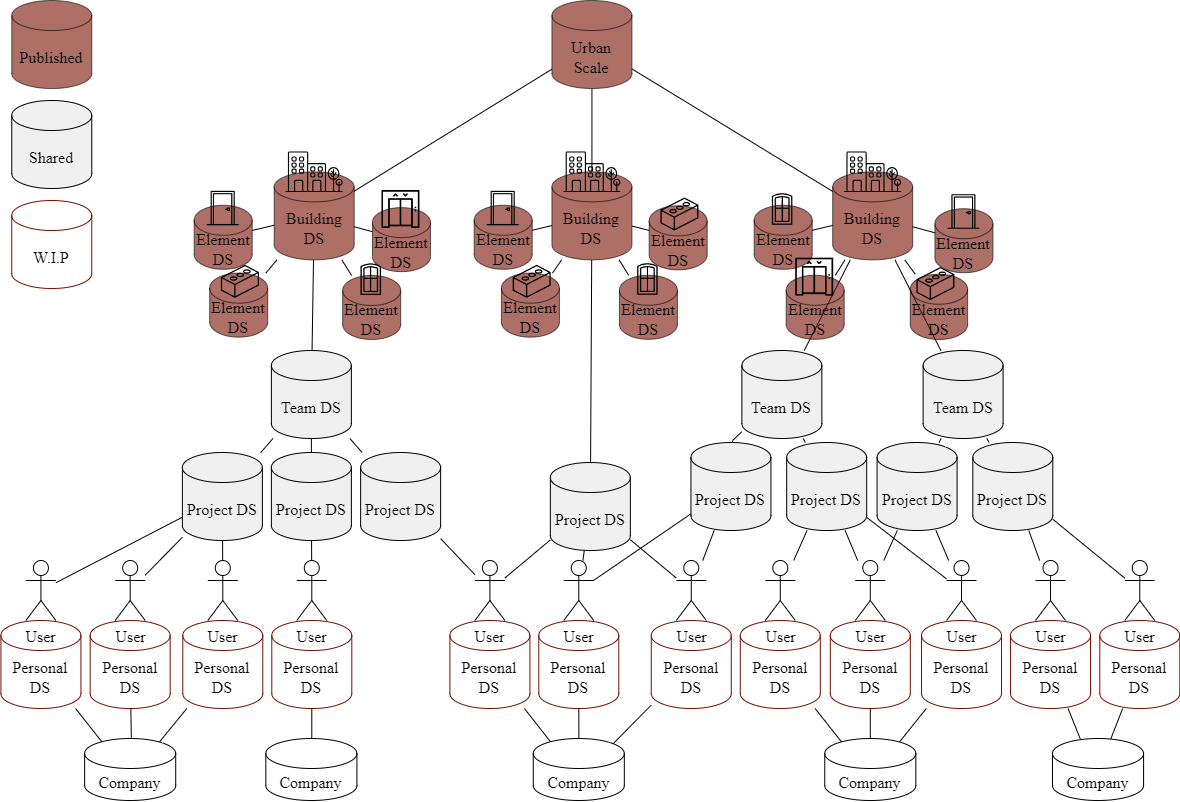
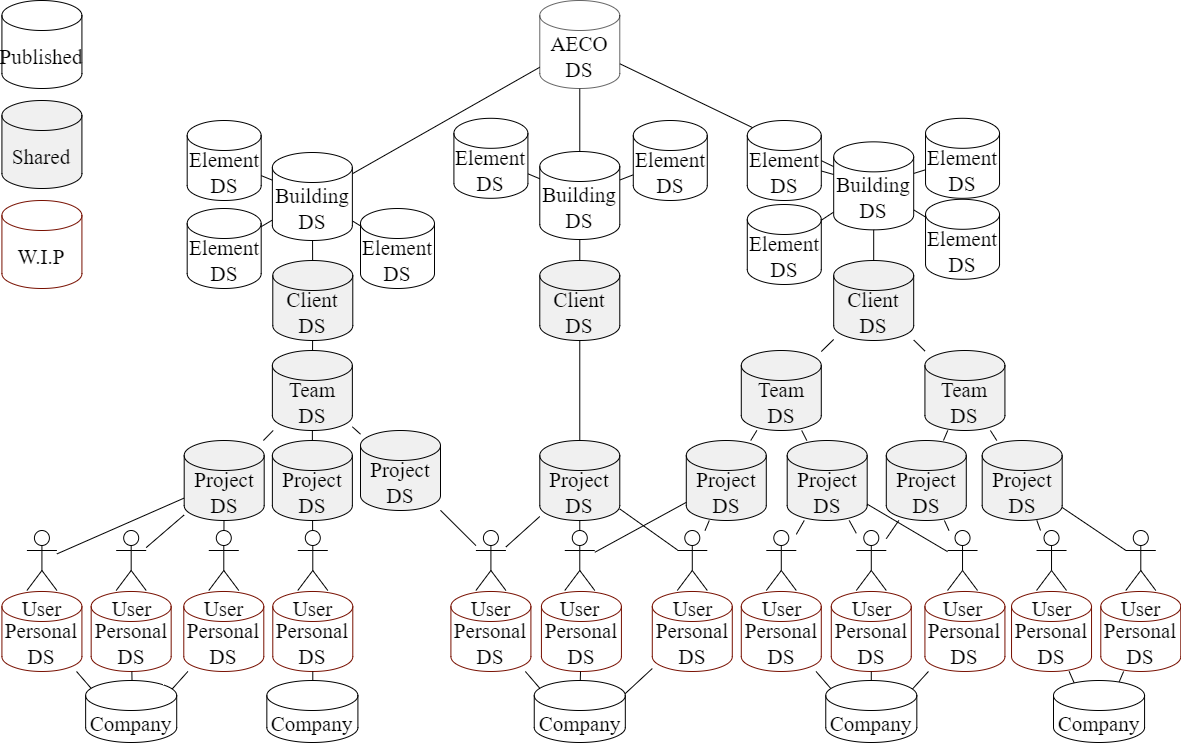
Information Tab Update Text

diff --git a/client/src/scenes/Information/index.jsx b/client/src/scenes/Information/index.jsx
@@ -34,7 +34,7 @@ const Information = () => {
       <Box flex="1" mr={4}>
         <Header
           title="Information"
-          subtitle="This page explains (1) what the AECO data space it, (2) how it works for users and admins, and (3) who and why it was developed."
+          subtitle="This page provides an overview of the AECO data space by explaining (1) what it is, (2) how it functions for both users and administrators, and (3) the purpose and rationale behind its development."
         />
 
         {/* Text content */}
@@ -43,16 +43,16 @@ const Information = () => {
             Explanation AECO Data Space
           </Typography>
           <Typography variant="body1" gutterBottom>
-            This website represents the AECO (Architecture, Engineering, Construction, and Operations) data space, which is designed to facilitate seamless information exchange and collaboration among different stakeholders involved during the different life-cycle stages of a building. 
+            This prototype represents the AECO (Architecture, Engineering, Construction, and Operations) data space, which is designed to facilitate seamless information exchange and collaboration among different stakeholders involved during the different life-cycle stages of a building. 
           </Typography>
           <Typography variant="body1" gutterBottom>
             The AECO data space contains different smaller data spaces that together form the AECO data space. Hence, the AECO data space consists of several building data spaces, which in turn consist of element data spaces, as shown in Figure 1.
           </Typography>
           <Typography variant="body1" gutterBottom>
-            During a building's life cycle, different stakeholders generate information at various stages. Following the ISO 19650 recommended workflow for data sharing, this information undergoes different stages before becoming publicly accessible. Initially, data is labeled as Work In Progress (W.I.P) and is not publicly accessible. It is then shared within the company or team (shared). Finally, once all stakeholders agree, the data can be made publicly available.
+          Throughout a building's life cycle, various stakeholders generate information at different stages. According to the ISO 19650 workflow for data sharing, this information progresses through several phases before becoming publicly accessible. Initially, data is classified as Work In Progress (W.I.P.) and remains restricted. Next, it is shared internally within the company, team, or with the client. Once all stakeholders have reviewed and approved the data, it can be made publicly available.
           </Typography>
           <Typography variant="body1" gutterBottom>
-            The AECO data space follows a hierarchical structure comprising several data spaces, ranging from personal to project, team, element, building, and urban data spaces, as shown in Figure 2.
+            The AECO data space follows a hierarchical structure comprising several data spaces, ranging from personal to project, team, client, element, and building data spaces, as shown in Figure 2.
           </Typography>
           <Typography variant="body1" gutterBottom component="div">
           <ol>
@@ -69,7 +69,7 @@ const Information = () => {
                 onClick={() => navigate('/companydataspace')}
                 sx={{ cursor: 'pointer' }}
               >
-                 <strong>Project Data Space:</strong> Each user works for a company, and every company has one or more projects related to a building or building element. For each project, a project data space is created. Files in this space are accessible to all employees assigned to the project within the company.
+                 <strong>Project Data Space:</strong> Each user works for a company, and every company has one or more projects related to a building or building element. For each project, a project data space is created for which it is indicated which employees are working on that project. Files in this space are accessible to all employees assigned to the project within the company.
               </Typography>
              
             </li>
@@ -84,20 +84,20 @@ const Information = () => {
             </li>
             <li>
               <Typography
-                onClick={() => navigate('/elementdataspace')}
+                onClick={() => navigate('/clientdataspace')}
                 sx={{ cursor: 'pointer' }}
               >
-                <strong>Element/Building Data Space:</strong> When all stakeholders within the team agree about the content of the data, the data can be made publicly available and thus moves to the related building or element data space.
+                <strong>Client Data Space:</strong> For each project and team, the client of the assignment is indicated. In the client data space, the user has an overview of all projects and teams where the user is registered as a client. When the information is ready to be shared, the user can update the file status to 'shared with client'. The information will then appear in the client data space. 
               </Typography>
+              
             </li>
             <li>
               <Typography
-                onClick={() => navigate('/urbanscale')}
-                sx={{ cursor: 'pointer'}}
+                onClick={() => navigate('/elementdataspace')}
+                sx={{ cursor: 'pointer' }}
               >
-                <strong>Urban Data Space:</strong> This data space includes all building data spaces.
+                <strong>Element/Building Data Space:</strong> When all stakeholders within the project or team and the client agree about the content of the data, the data can be made publicly available and thus moves to the related building or element data space.
               </Typography>
-              
             </li>
           </ol>
           </Typography>
@@ -120,7 +120,7 @@ const Information = () => {
                 onClick={() => navigate(`/dataupload`)}
                 sx={{ cursor: 'pointer' }}
             >
-                <strong>Upload Data:</strong> Next, the user should upload their data. In doing so, it is important to indicate the owner of the file, to which element or building the file is related, and the company, project, and possibly the team that are involved with the file. Finally, the user should indicate the sharing status of the file, chosing the file to be private, shared, or public. 
+                <strong>Upload Data:</strong> Next, the user should upload their data. In doing so, it is important to indicate the owner of the file, to which element or building the file is related, and the company, project, and possibly the team that are involved with the file. Finally, the user should indicate the sharing status of the file, chosing the file to be private, shared (with project, team or client), or public. 
             </Typography>
             </li>
             <li>
@@ -128,21 +128,21 @@ const Information = () => {
                 onClick={() => navigate(`/personaldataspace`)}
                 sx={{ cursor: 'pointer' }}
             >
-                <strong>Update File Status:</strong> Over time, the sharing status of a file could change. It is important that the user updates this infromation in their personal data space. When changing the status, the file will become acccessible in the different data spaces, and thus for different users. See the personal data space for an elaborat explanation of which file is accessible to which user with what file status.
+                <strong>Update File Status:</strong> Over time, the sharing status of a file could change. It is important that the user updates this infromation in their personal data space. When changing the status, the file will become visible in the different data spaces, and thus for different users. Navigate to the personal data space for an elaborate explanation of which file is accessible to which user with what file status.
             </Typography>
             </li>
             <li>
             <Typography>
-                <strong>Explore Data Spaces:</strong> Finally, the user can explore the different data spaces. In the personal data space, the user can find all their uploaded files. Next, the project data spaces shows the files related to the projects the user is involved in, same for the team data space. The building and element data space shows all files that are publicly available for every user.
+                <strong>Explore Data Spaces:</strong> Finally, the user can explore the different data spaces. In the personal data space, the user can find all their uploaded files. Next, the project data spaces shows the files related to the projects the user is involved in, same for the team data space. When the user is registered as a client, the client data space gives an overview of the progress of all these projects and teams. The building and element data space shows all files that are publicly available for every user.
             </Typography>
             </li>
             </ol>
           </Typography>
           <Typography color={theme.palette.secondary[100]} fontWeight="bold" variant="h5" gutterBottom>
-            Admin Information
+            Role Dependent Functions
           </Typography>
           <Typography variant="body1" gutterBottom>
-            As an admin it is important to keep track of the following meta deta;
+          In the AECO data space, certain functions are accessible only to users with specific roles. For example, users with the appropriate permissions can create and update metadata, such as new projects, teams, companies, buildings, or elements. Additionally, administrators have the ability to manage and update user roles.
           </Typography>
           <Typography variant="body1" gutterBottom>
           <ol>
@@ -151,7 +151,7 @@ const Information = () => {
                 onClick={() => navigate(`/companyinformation/newcompany`)}
                 sx={{ cursor: 'pointer' }}
             >
-                <strong>New Companies:</strong> When a new company is founded, the admin should create a new company in the company information tab.
+                <strong>New Companies:</strong> When a new company is founded, the user should create a new company in the company information tab. This can only be done by users with the roles: admin or company owner.  
             </Typography>
             </li>
 
@@ -160,7 +160,7 @@ const Information = () => {
                 onClick={() => navigate(`/companydataspace/newproject`)}
                 sx={{ cursor: 'pointer' }}
             >
-                <strong>New Project:</strong> When a new project is established, the admin should create a new project in the company data space tab. The project should include the employees that are working on the project, the client, and to which building the company is related. If the project is related to a specific element, please select in which building the element is located.  
+                <strong>New Project:</strong> When a new project is established, the user should create a new project in the company data space tab. The project should include the employees that are working on the project, the client, and to which building the company is related. If the project is related to a specific element, please select in which building the element is located. Users with the roles admin, team or project leader are authorized to do this. 
             </Typography>
               </li>
               <li>
@@ -168,7 +168,7 @@ const Information = () => {
                 onClick={() => navigate(`/teamdataspace/newteam`)}
                 sx={{ cursor: 'pointer' }}
             >
-                <strong>New Teams:</strong> When a new team is established, the admin should create a new team in the team data space. In doing so, it is important to select the companies that are involved in the team, the client of the job, and the projects of specific companies that are related to this team.  
+                <strong>New Teams:</strong> When a new team is established, the user should create a new team in the team data space. In doing so, it is important to select the companies that are involved in the team, the client of the job, and the projects of specific companies that are related to this team. Admin or team leaders have the authority to do this. 
                 </Typography>
                 </li>
                 <li>
@@ -176,7 +176,7 @@ const Information = () => {
                 onClick={() => navigate(`/urbanscale/newbuilding`)}
                 sx={{ cursor: 'pointer' }}
             >
-                <strong>New Building:</strong> When a new building is build, the admin should create a new building in the urban data space. In doing so, the building owner, name and place need to be determined. 
+                <strong>New Building:</strong> When a new building is build, the admin should create a new building in the urban data space. In doing so, the building owner, name and place need to be determined. This function is accessible for users with the roles: admin, building owner, element owner, team leader, or project leader.
                 </Typography>
                 </li>
                 <li>
@@ -184,7 +184,20 @@ const Information = () => {
                 onClick={() => navigate(`/elementdataspace/newelement`)}
                 sx={{ cursor: 'pointer' }}
             >
-                <strong>New Element:</strong> When a new element is created, the admin should create a new element in the element data space. In doing so, the element owner, name and place need to be determined.  
+                <strong>New Element:</strong> When a new element is created, the admin should create a new element in the element data space. In doing so, the element owner, name and place need to be determined. This function is accessible for users with the roles: admin, building owner, element owner, team leader, or project leader. 
+                </Typography>
+                </li>
+                <li>
+              <Typography>
+                <strong>Editting Meta Data:</strong> After a company, project, team, building, or element is created, the associated metadata may need to be updated. Users with specific permissions can make these changes. For building and element metadata, changes can be made by the user designated as the building or element owner. Team metadata can be updated by the team leader, and project metadata by the project leader. Company information can be edited by the company itself. Additionally, users registered as admins have the authority to modify any of these metadata.
+                </Typography>
+                </li>
+                <li>
+              <Typography
+                onClick={() => navigate(`/admin`)}
+                sx={{ cursor: 'pointer' }}
+            >
+                <strong>Admin Page:</strong> The information above highlights that certain functions are role-dependent, making it essential for users to have the correct roles assigned. However, to ensure security and proper access control, changing these roles should not be too easy. Therefore, only administrators have the authority to modify user roles. This can be done through the admin page, which only appears in the sidebar for users registered as admins. 
                 </Typography>
                 </li>
             </ol>
@@ -196,14 +209,14 @@ const Information = () => {
               Acknowledgement
             </Typography>
             <Typography variant="body1" gutterBottom>
-              This AECO data space is developed by Krista van Zandwijk and is part of a final master project of a double degree master program including the masters' Construction Management & Engineering (CME) and Innovation Sciences (IS). The defense of this thesis took place on the XXX of November 2024, after which the research became public. The development code of the data space can be found on Github  
+              This AECO data space is developed by Krista van Zandwijk and is part of a final master project of a double degree master program including the masters' Construction Management & Engineering (CME) and Innovation Sciences (IS). The defense of this thesis took place on the 28th of November 2024, after which the research became public. The development code of the data space can be found on Github  
               <a href={linkUrl} target="_blank" rel="noopener noreferrer">
                 <GitHub style={{ fontSize: 16, color: 'black', marginLeft: '0.5rem' }} />
               </a>.
               The code is openly accessible, and is allowed to be re-used. If you use this code, please cite it as:
             </Typography>
             <Typography variant="body1">
-              van Zandwijk, G. R. K. (2024). [Title report] 
+              van Zandwijk, G. R. K. (2024). Improving Information Exchange in the Architecture, Engineering, Construction, and Operations Industry: Governance and Development of a Data Space
             </Typography>
           </Box>
         </Box>
